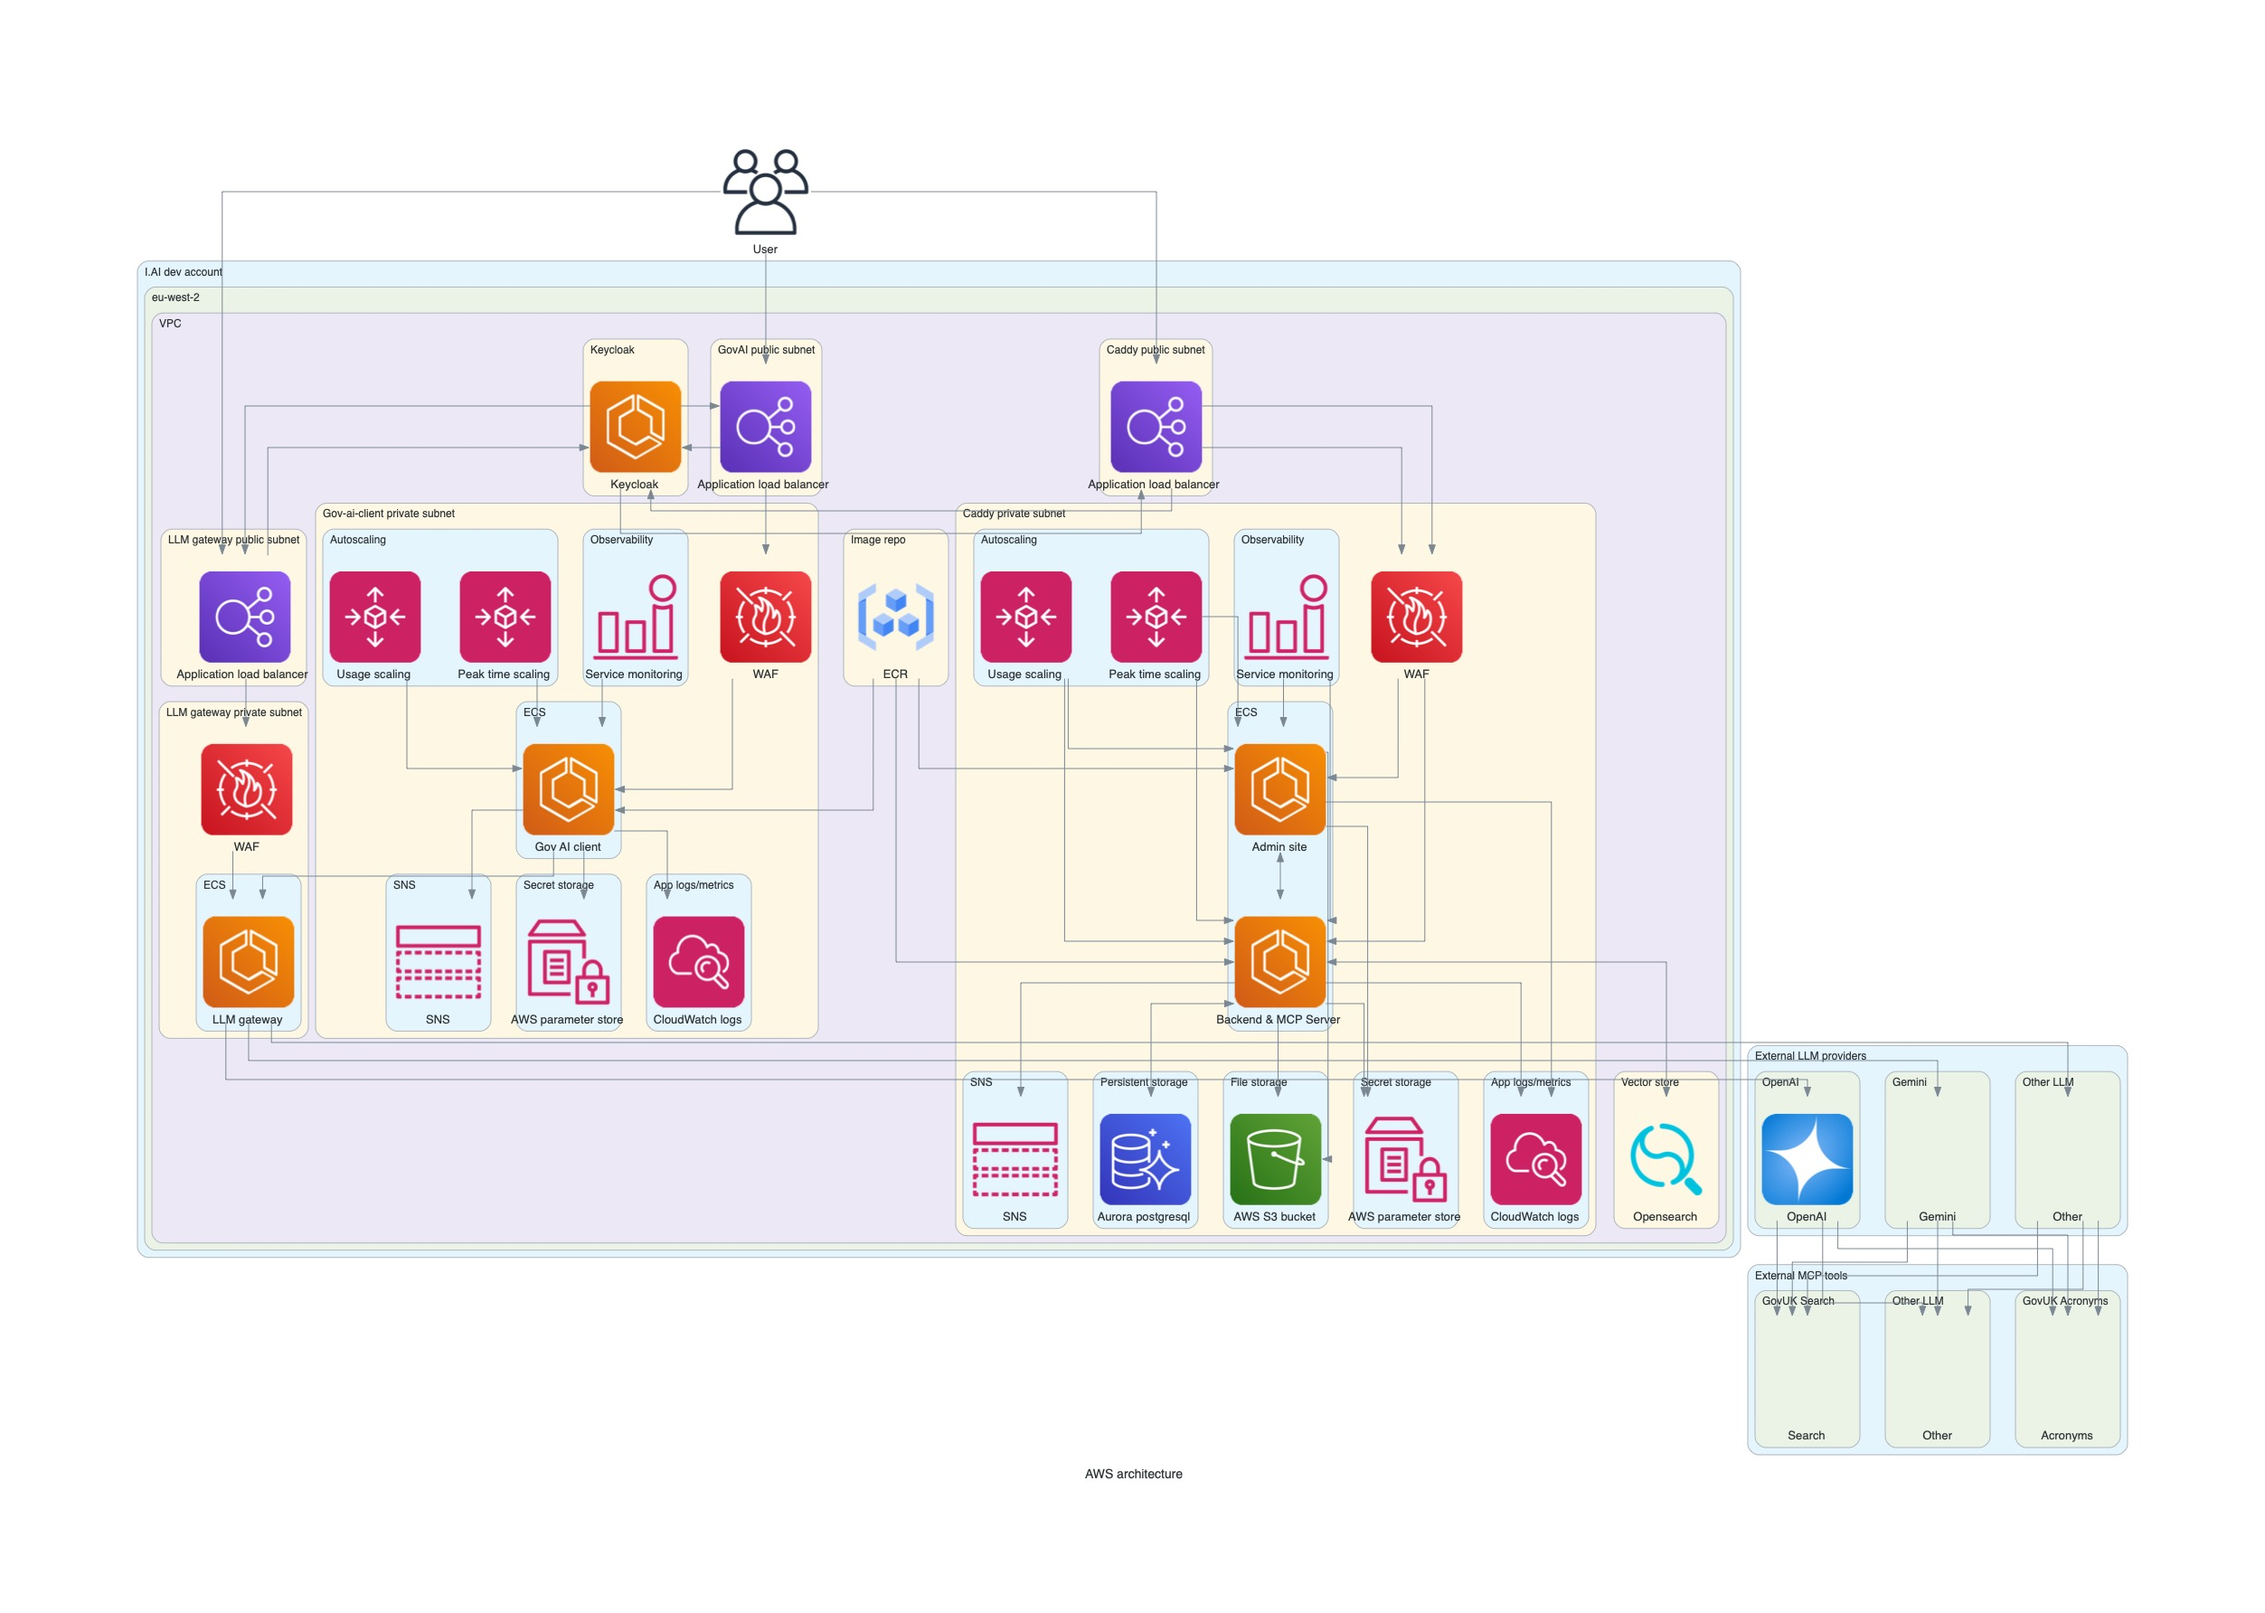
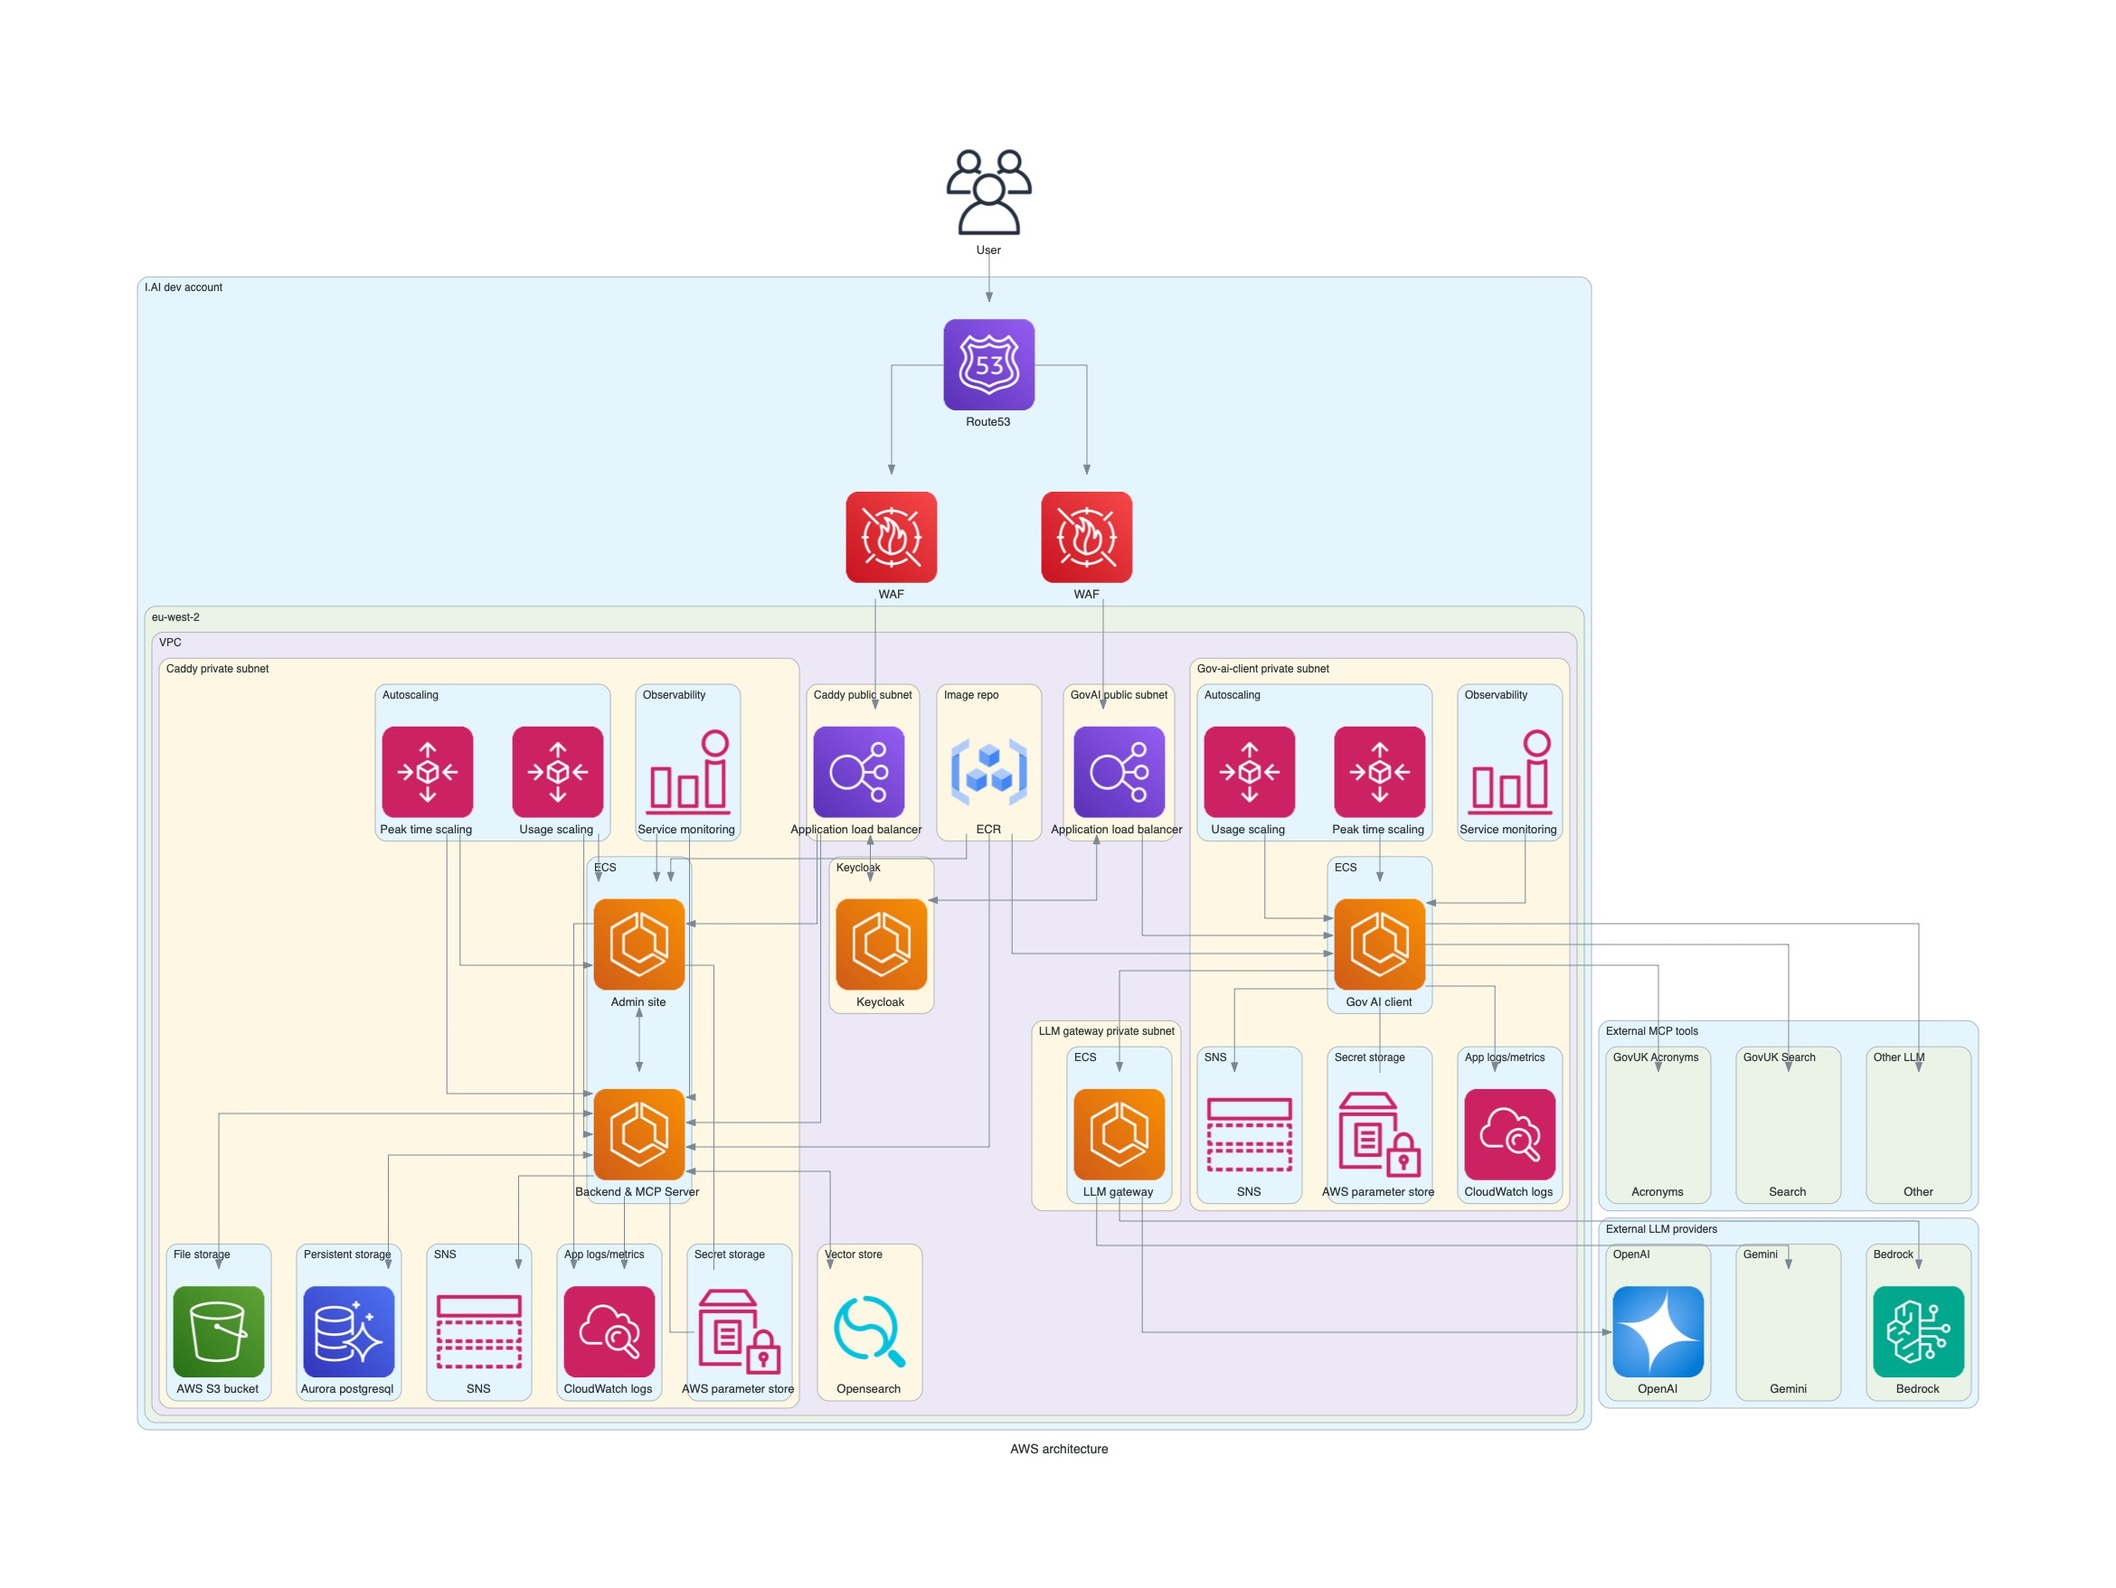
Updated diagram from feedback from platform

Changed region(s): [[0.0624, 0.0922, 0.9671, 0.922]]

diff --git a/terraform/diagram_script.py b/terraform/diagram_script.py
@@ -10,10 +10,11 @@ from diagrams.aws.management import (
     CloudwatchAlarm,
     ParameterStore,
 )
-from diagrams.aws.network import ELB
+from diagrams.aws.network import ELB, Route53
 from diagrams.aws.security import WAF
 from diagrams.aws.storage import S3
 from diagrams.azure.ml import AzureOpenAI
+from diagrams.aws.ml import Bedrock
 from diagrams.gcp.devtools import ContainerRegistry
 from diagrams.generic.blank import Blank
 
@@ -21,6 +22,8 @@ graph_attr = {
     "fontsize": "14",
     "bgcolor": "transparent",
     "splines": "ortho",
+    "beautify": "true",
+    "esep": "+6",
 }
 
 with Diagram(
@@ -32,6 +35,10 @@ with Diagram(
     graph_attr=graph_attr,
 ):
     with Cluster("I.AI dev account"):  # noqa: SIM117
+        route_53 = Route53("Route53")
+        gov_waf = WAF("WAF")
+        caddy_waf = WAF("WAF")
+
         with Cluster("eu-west-2"):
             with Cluster("VPC"):
                 with Cluster("Keycloak"):
@@ -46,17 +53,10 @@ with Diagram(
                 with Cluster(
                     "LLM gateway private subnet"
                 ) as llm_gateway_private_subnet:
-                    llm_gateway_waf = WAF("WAF")
-
                     with Cluster("ECS"):
                         llm_gateway_ecs = ECS("LLM gateway")
 
-                with Cluster("LLM gateway public subnet"):
-                    llm_gateway_alb = ELB("Application load balancer")
-
                 with Cluster("Gov-ai-client private subnet") as gov_ai_private_subnet:
-                    gov_waf = WAF("WAF")
-
                     with Cluster("SNS"):
                         gov_sns_topic = SimpleNotificationServiceSnsTopic("SNS")
 
@@ -80,8 +80,6 @@ with Diagram(
                     gov_alb = ELB("Application load balancer")
 
                 with Cluster("Caddy private subnet") as caddy_private_subnet:
-                    waf = WAF("WAF")
-
                     with Cluster("SNS"):
                         sns_topic = SimpleNotificationServiceSnsTopic("SNS")
 
@@ -116,8 +114,8 @@ with Diagram(
             oa = AzureOpenAI("OpenAI")
         with Cluster("Gemini"):
             gemini = Blank("Gemini")
-        with Cluster("Other LLM"):
-            other = Blank("Other")
+        with Cluster("Bedrock"):
+            bedrock = Bedrock("Bedrock")
 
     with Cluster("External MCP tools"):
         with Cluster("GovUK Acronyms"):
@@ -129,51 +127,40 @@ with Diagram(
 
     users = Users("User")
 
-    users >> alb
+    users >> route_53
 
-    users >> gov_alb
+    route_53 >> gov_waf
+    route_53 >> caddy_waf
 
-    users >> llm_gateway_alb
+    caddy_waf >> alb
 
-    llm_gateway_alb >> llm_gateway_waf
-
-    llm_gateway_waf >> llm_gateway_ecs
+    gov_waf >> gov_alb
 
     llm_gateway_ecs >> oa
     llm_gateway_ecs >> gemini
-    llm_gateway_ecs >> other
+    llm_gateway_ecs >> bedrock
 
-    oa >> acronyms
-    oa >> search
-    oa >> mcp_other
+    gov_frontend >> acronyms
+    gov_frontend >> search
+    gov_frontend >> mcp_other
 
-    gemini >> acronyms
-    gemini >> search
-    gemini >> mcp_other
+    alb >> Edge() << keycloak
 
-    other >> acronyms
-    other >> search
-    other >> mcp_other
-
-    alb >> keycloak >> alb
-
-    gov_alb >> keycloak >> gov_alb
-
-    llm_gateway_alb >> keycloak >> llm_gateway_alb
+    gov_alb >> Edge() << keycloak
 
     gov_frontend >> llm_gateway_ecs
 
-    gov_alb >> gov_waf >> gov_frontend
-    gov_frontend >> gov_ssm
+    gov_alb >> gov_frontend
+    gov_frontend - gov_ssm
     gov_frontend >> gov_cloudwatch
     gov_frontend >> gov_sns_topic
     gov_usage_scaling_group >> gov_frontend
     gov_peaktime_scaling_group >> gov_frontend
     gov_cloudwatch_alarms >> gov_frontend
 
-    alb >> waf >> backend
-    backend >> s3
-    backend >> ssm
+    alb >> backend
+    backend >> Edge() << s3
+    backend - ssm
     backend >> cloudwatch
 
     backend >> Edge() << rds
@@ -189,9 +176,8 @@ with Diagram(
 
     backend >> Edge() << opensearch
 
-    alb >> waf >> frontend
-    frontend >> s3
-    frontend >> ssm
+    alb >> frontend
+    frontend - ssm
     frontend >> cloudwatch
     usage_scaling_group >> frontend
     peaktime_scaling_group >> frontend
